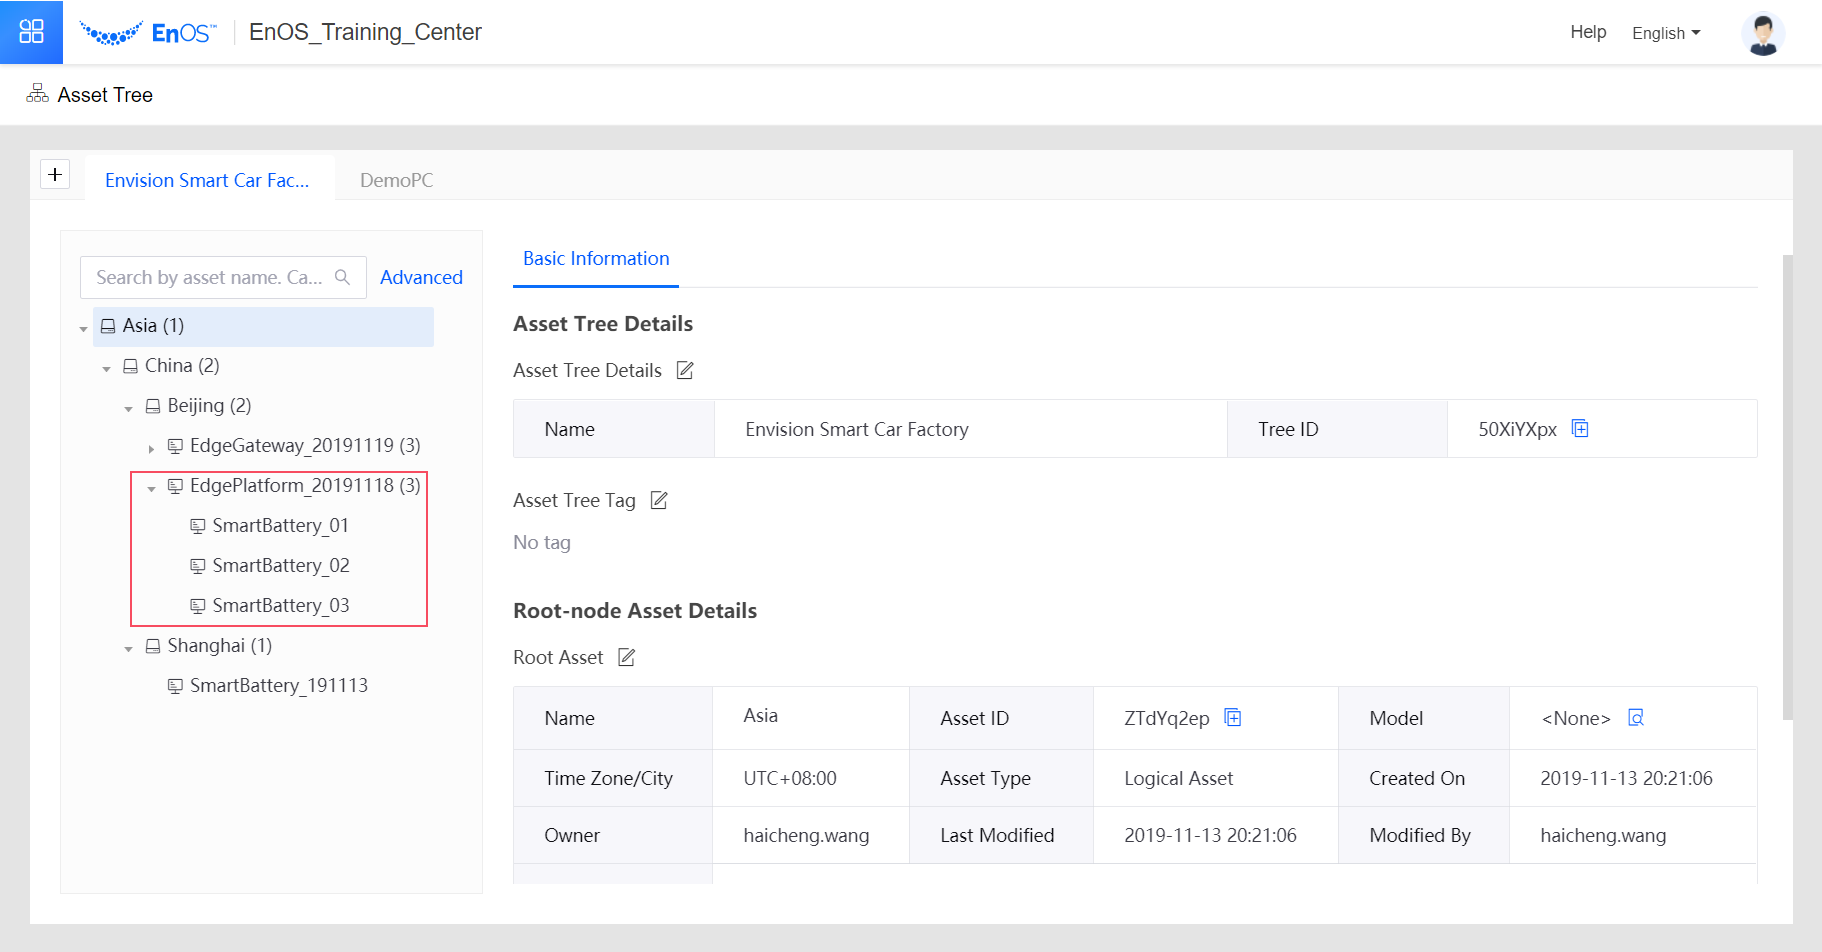
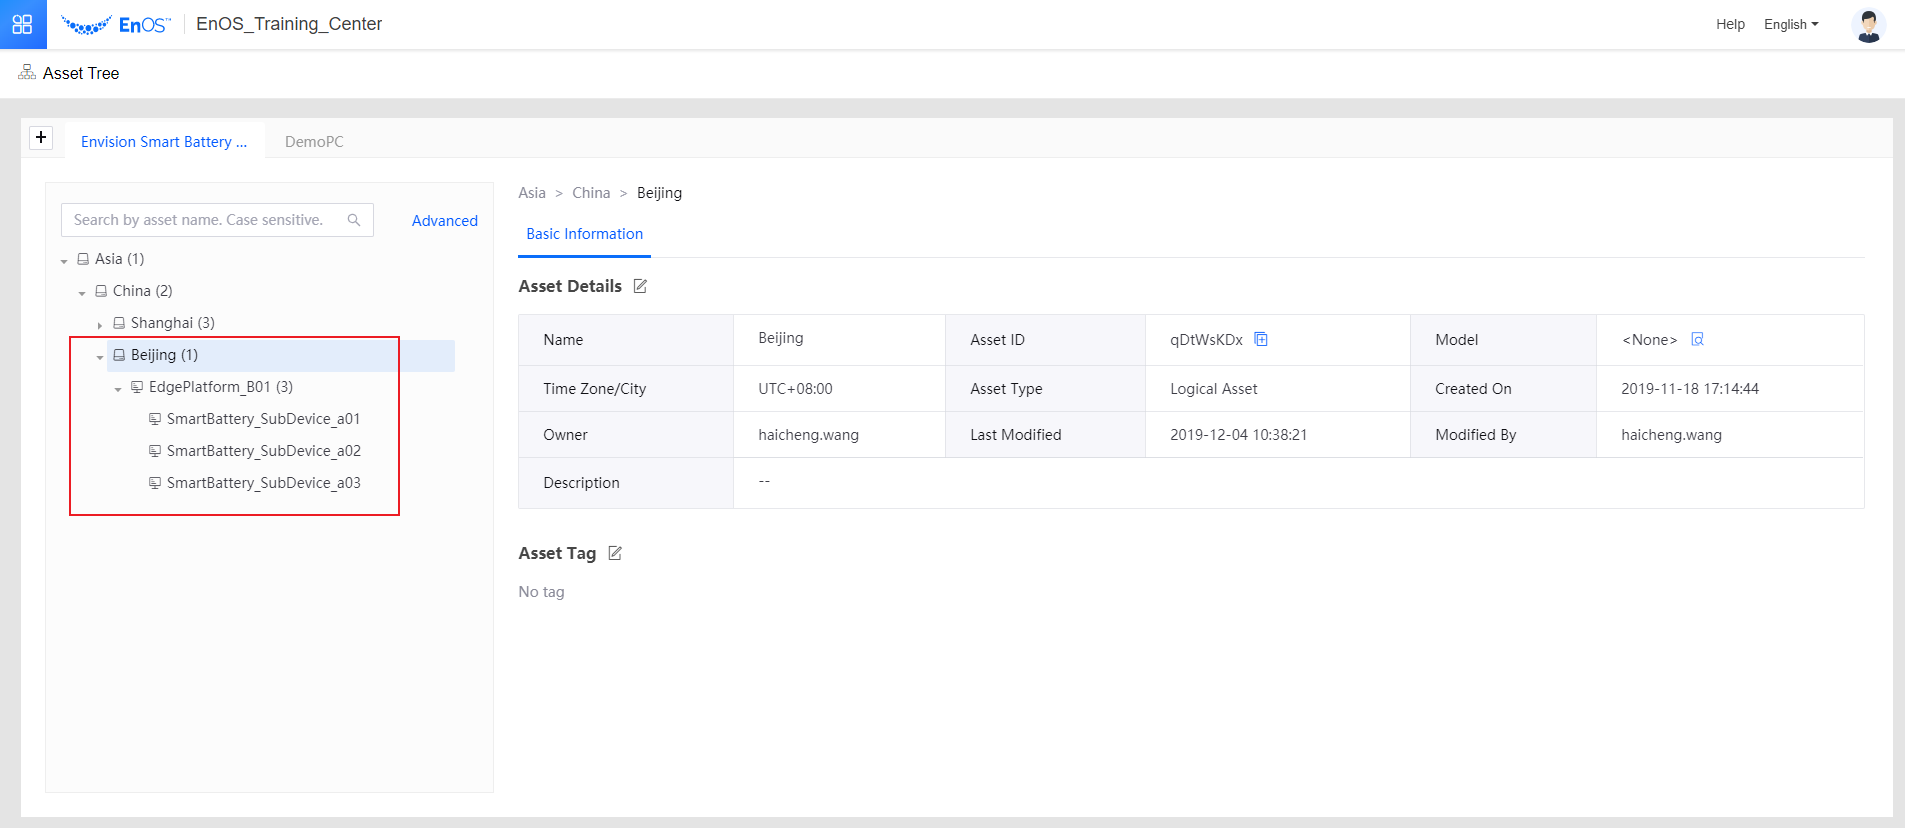
Update the lab tutorial to reflect the naming convention

diff --git a/Day5_Edge_Connectivity_Intelligence/lab_tutorial/306_Connecting_Edge_To_Cloud.md b/Day5_Edge_Connectivity_Intelligence/lab_tutorial/306_Connecting_Edge_To_Cloud.md
@@ -13,20 +13,23 @@ EnOS Edge has already been defined as a public model on EnOS Cloud,  i.e., EnOS_
 
 ![Edge Public Model](media/edge_public_model.png)
 
-So for this step, we only need to define a model for the smart batteries. We will name this model *SmartBattery_Demo* that has the following measurement points:
+So for this step, we only need to define a model for the smart batteries. We will name this model *SmartBattery_Model_TraineeId* that has the following measurement points:
 
 | Name | Identifier  | Data Type | Unit |
 | ---- | ------- | -------- | -------- |
-| Demo_voltage | voltage | double   | V        |
-| Demo_current | current | double   | A        |
-| Demo_temperature | temp    | double   | °C       |
+| voltage | voltage | double   | V        |
+| current | current | double   | A        |
+| temperature | temp    | double   | °C       |
 
 
 ## Step 2: Creating Products
 
-In this step, we will create products from the following models:
+In this step, we will create the battery product if you have not done this before: 
 
-- Product *SmartBattery_Demo_Product* from model *SmartBattery_Demo*.
+- Product *SmartBattery_Product_TraineeId* from model *SmartBattery_Model_TraineeId*.
+
+<u>For the Edge product, you don't need to create it, just use the one already created on the platform:</u>
+
 - Product *EnOS_Edge_Standard_Platform* from public model *EnOS_Edge_Standard_Model*.
 
 <!--Put a screenshot of a created smart battery product here-->
@@ -35,21 +38,27 @@ In this step, we will create products from the following models:
 
 ## Step 3: Registering Devices
 
-In this step, we need to register simulated smart batteries and the EnOS Edge to EnOS Cloud.
+In this step, we need to register smart battery to be connected through EnOS Edge to the Cloud.
 
-![Smart Battery Devices](media/smart_battery_devices.png)
+<img src="media/smart_battery_devices.png" alt="Smart Battery Devices" style="zoom: 67%;" />
+
+
+
+For the Edge device, we just use the one that has already been created:
 
 ![EnOS Edge Device](media/enos_edge_product.png)
 
-![Selecting Edge Type](media/selecting_edge_type.png)
+This Edge type is an "Edge Extensive":
 
-**Note**: For **edge_type**, you must select **EdgeExtensive** so that we will have enough capacity for later edge computing and alert labs.
+<img src="media/selecting_edge_type.png" alt="Selecting Edge Type" style="zoom:67%;" />
+
+**Note**: For **edge_type**, we select **EdgeExtensive** so that we will have enough capacity for later edge computing and alert labs.
 
 ## Step 4: Creating an Asset Tree and Binding Edge And Devices
 
-Creating an asset tree facilitates asset management. In this step, we will create an asset tree named *Envision Smart Car Factory*.
+Creating an asset tree facilitates asset management. In this step, we will reuse the asset tree named *Envision Smart Battery Provider*.
 
-This tree has a root node **Asia** . The 3 smart batteries we created are under path **China > Beijing > EdgePlatform_20191118** as shown in the following screenshot:
+This tree has a root node **Asia** . The smart battery we created will be under path **China > Beijing > EdgePlatform_B01** as shown in the following screenshot:
 
 ![Asset Tree](media/asset_tree_info.png)
 
@@ -77,10 +86,10 @@ A template prescribes the following things:
 4. Open the downloaded protocol configuration file *point.xlsx* . Configure the device data to be collected as follows in *point.xlsx* and upload this configuration file.
 
    | Point Name | Point Number | Value Type | Point Type | Coefficient | Default Value | Alias                |
-   | ------------------------- | ---- | ------ | ------ | ---- | ---- | ------------------- |
-   | SmartBattery_Demo.voltage | 0    | float  | AI     | 0.01 | 0    | Battery voltage     |
-   | SmartBattery_Demo.current | 1    | float  | AI     | 0.01 | 0    | Battery current     |
-   | SmartBattery_Demo.temp    | 2    | float  | AI     | 0.01 | 0    | Battery temperature |
+   | ------------------------- | ---- | ------ | ------ | ---- | :--- | ------------------- |
+   | SmartBattery_Model_TraineeId.voltage | 0    | float  | AI     | 0.01 | 0    | Battery voltage     |
+   | SmartBattery_Model_TraineeId.current | 1    | float  | AI     | 0.01 | 0    | Battery current     |
+   | SmartBattery_Model_TraineeId.temp | 2    | float  | AI     | 0.01 | 0    | Battery temperature |
 
 5. In **Points Mapping** , configure the data mapping for the measurement points as follows:
 
@@ -93,17 +102,19 @@ Now we can perform the following tasks:
 - Initiating the communication between EnOS Edge and EnOS Cloud by importing the configuration to a physical edge server.
 - Creating a connection for EnOS Edge and its sub-devices, which are the smart batteries we created in our case, so that they can communicate as prescribed in the template we configured in the previous step.
 
-1. Go to **EnOS Edge > Edge Management** . Click **New Edge** . Select the EnOS Edge we just created, **EdgePlatform_20191118** and click **Confirm** to import this EnOS Edge into **Edge Management** . 
+1. Go to **EnOS Edge > Edge Management** . Click **New Edge** . Select the EnOS Edge we just created, **EdgePlatform_B01** and click **Confirm** to import this EnOS Edge into **Edge Management** . 
 
-2. Click **View** in the **Operations** column ot enter the **Edge Detail** page of **EdgePlatform_20191118** . Click the button to the right of **Publish** at the bottom of the page and select **Download Edge Info(Main)** to download the *box.conf* file. Forward *box.conf* to a deployment engineer to have an edge server configured. Then the edge server can communicate with EnOS Cloud as prescribed by you in the previous steps.
+2. Click **View** in the **Operations** column ot enter the **Edge Detail** page of **EdgePlatform_B01** . Click the button to the right of **Publish** at the bottom of the page and select **Download Edge Info(Main)** to download the *box.conf* file. Forward *box.conf* to a deployment engineer to have an edge server configured. Then the edge server can communicate with EnOS Cloud as prescribed by you in the previous steps.
 
  ![Downloading Server Configuration File](media/downloading_box_conf.png)
+
+**Note**: The above two steps are not necessary in this lab, please just use Edge that has already been imported.
 
 3. Go to **Edge Detail > Access Management**. On **Ethernet** tab page, select **Add Connection** . In the **Edit Connection** pop-up, fill in the fields as follows:
 
    | Field | Value | Note |
    | ----- | ----- | ------ |
-   | Name | Battery_Training | |
+   | Name | Battery_Connection_Traineed | |
    | Mode | TCP/IP Client | Value of this field depends on the protocol you use. |
    | Primary Interface | IP address and port of the computer we use to simulate smart batteries. | Port number can be a random integer from 1 to 65535 and is not already used for other purposes (system, common services, etc). In our case we use 2233. |
    | Protocol Type | ModbusRTU |  |
@@ -112,15 +123,14 @@ Now we can perform the following tasks:
 
    ![Connection Details](media/edge_edit_connection.png)
 
-4. Under Connection **Battery_Training** , click **Add Device** . In **Add Device** , select **SmartBattery_Demo_Product** and then the three smart batteries **SmartBattery_01**, **SmartBattery_02**, and **SmartBattery_03**. Click **Save** to add the batteries to this connection. 
+4. Under Connection **Battery_Connection_TraineeId** , click **Add Device** . In **Add Device** , select **SmartBattery_Product_TraineeId** and then the smart battery **SmartBattery_SubDevice_TraineeId**. Click **Save** to add the battery to this connection. 
 
-5. For all the three batteries, click **Edit** to enter **Edit Device** pop-up, select **SmartBattery_ModbusRTU(v1.0)** for **Template** . Set **Logical Address** of  **SmartBattery_01** to **1**, **SmartBattery_01** **2**, and **SmartBattery_03** **3**.
+5. For the battery, click **Edit** to enter **Edit Device** pop-up, select **SmartBattery_Template_TraineeId** for **Template** . Set **Logical Address** of  **SmartBattery_SubDevice_TraineeId** to **1**.
  ![Battery 1](media/edit_device_battery_1.png)
- ![Battery 2](media/edit_device_battery_2.png)
- ![Battery 3](media/edit_device_battery_3.png)
 
 
-## Step 7: Simulating Smart Batteries
+
+## Step 7: Simulating Smart Battery
 
 To simulate smart batteries sending out telemetries using our own laptop, we need the following softwares:
 
@@ -139,11 +149,11 @@ Download the installation program. Follow the wizard to finish installation.
 
 2. Click **Add COM** . In the pop-up window, fill in the fields as follows:
 
- | Field | Value | Note |
- | --- | --- | --- |
- | Virtual COM | Any COMM port available | Used COMM port will be removed from the drop-down to be non-selectable. |
- | Net Protocol | TCP Server | As we have set EnOS Edge as an TCP/IP client, the COMM port we simulate here has to be a server. |
- | Local Port | 2233 | Fill in this field with the port number we specified when creating a connection on EnOS Cloud console. |
+| Field | Value | Note |
+| --- | --- | --- |
+| Virtual COM | Any COMM port available | Used COMM port will be removed from the drop-down to be non-selectable. |
+| Net Protocol | TCP Server | As we have set EnOS Edge as an TCP/IP client, the COMM port we simulate here has to be a server. |
+| Local Port | 2233 | Fill in this field with the port number we specified when creating a connection on EnOS Cloud console. |
 
 3. Click **OK** to finish creating this new serial port.
 
@@ -151,7 +161,7 @@ Download the installation program. Follow the wizard to finish installation.
 
 Download and unzip the software package. *ModSim32.exe* is the simulator, which can be used directly without installation.
 
-In *configfile\battery*, we have prepared three configuration files for you, each file for simulating one smart battery:
+In *configfile\battery*, we have prepared three configuration files for you, each file for simulating one smart battery, you can choose anyone you want:
 
 - ModSim_modbus_rtu_100_1 for SmartBattery_01
 - ModSim_modbus_rtu_100_2 for SmartBattery_02
@@ -161,7 +171,7 @@ In *configfile\battery*, we have prepared three configuration files for you, eac
 
 1. Open *ModSim32.exe*
 
-2. Select **File > Open** . Go to *Your_Simulator_Path/configfile* and open the three configuration files one by one.
+2. Select **File > Open** . Go to *Your_Simulator_Path/configfile* and open one of the three configuration files.
 
 3. Select **Connection > Connect** and switch to the port you created with USR-VCOM.
 
